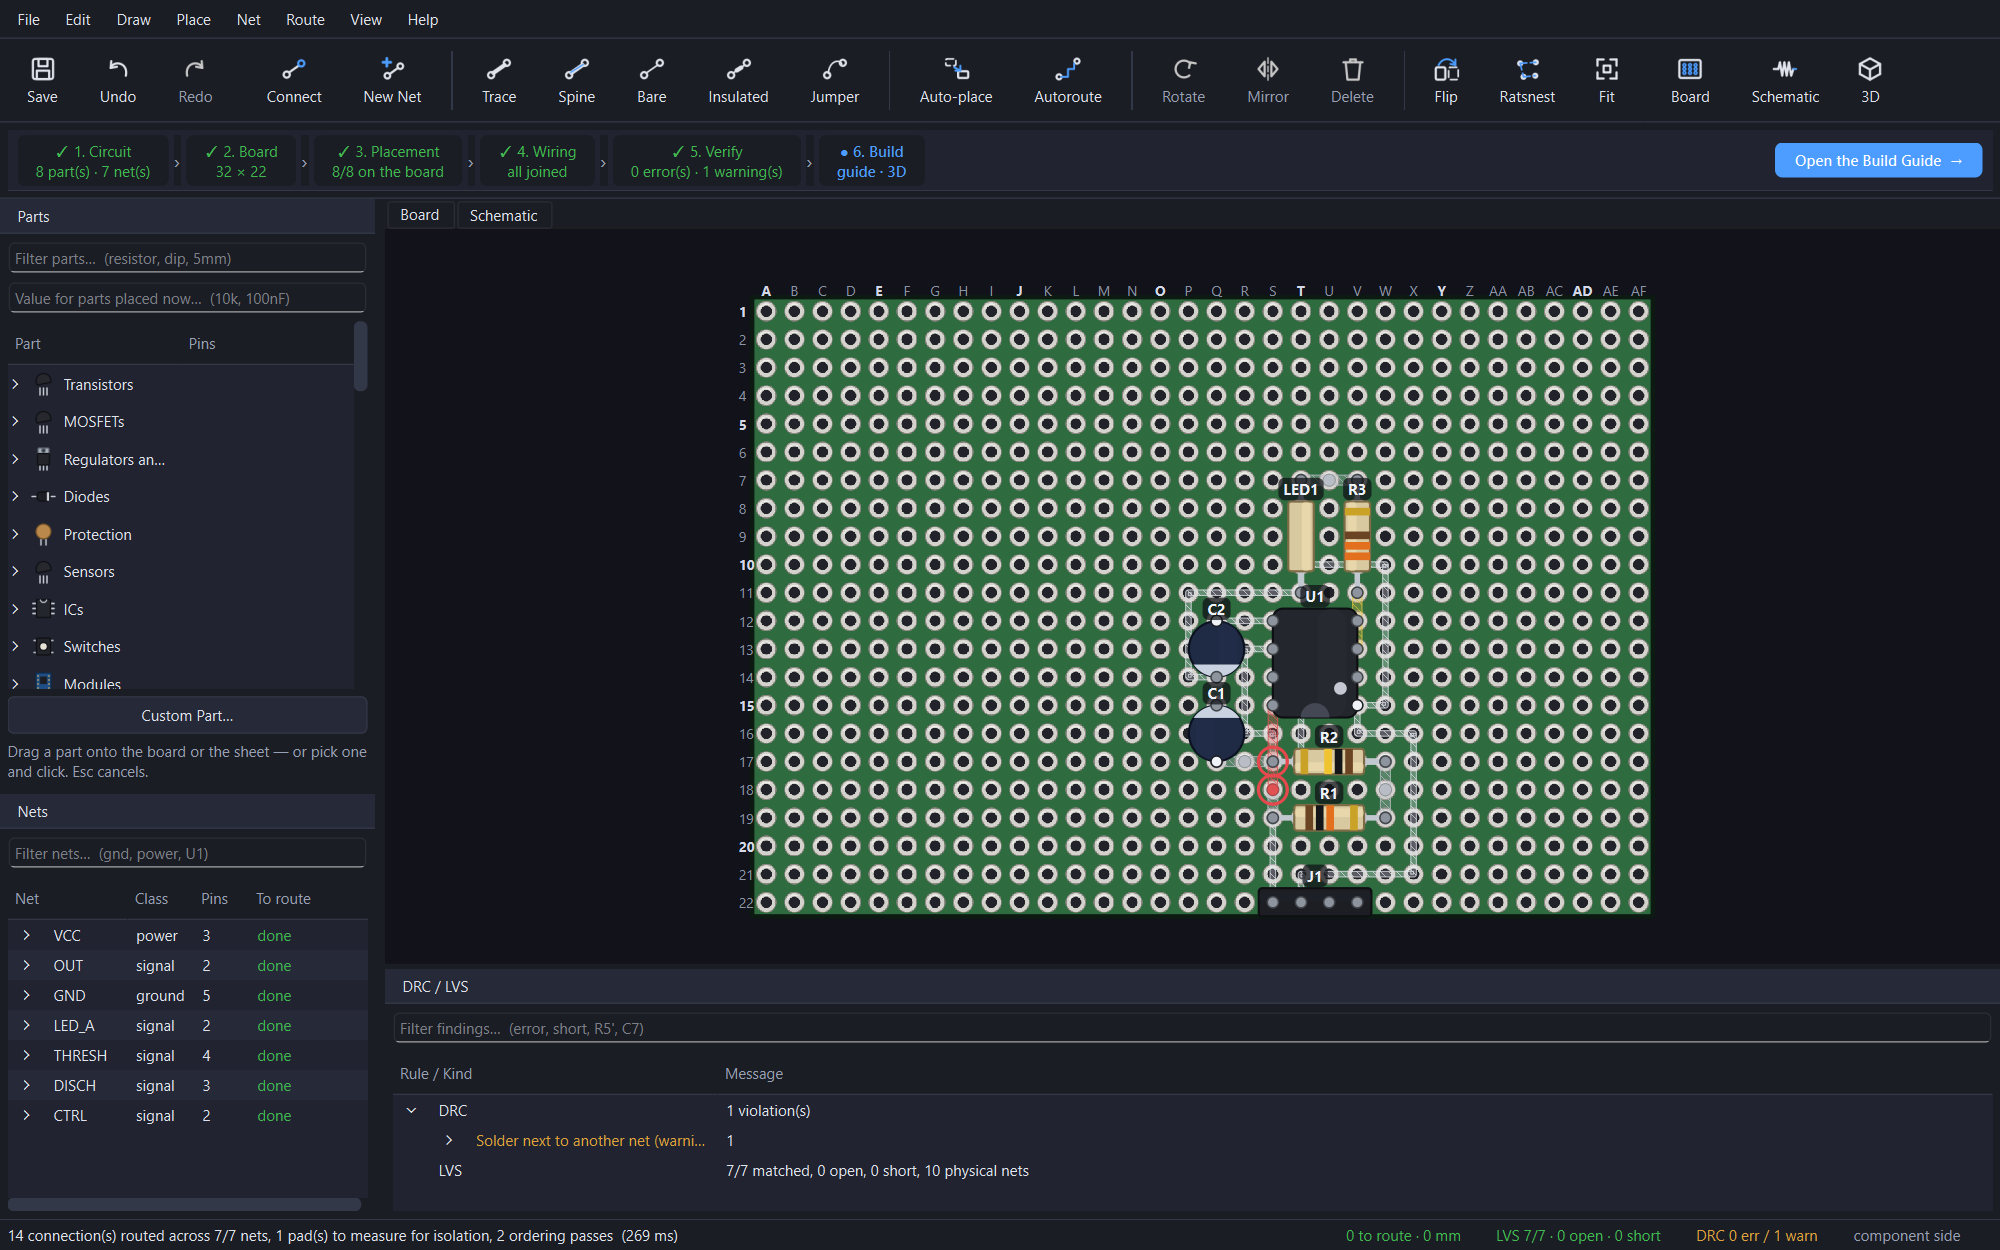
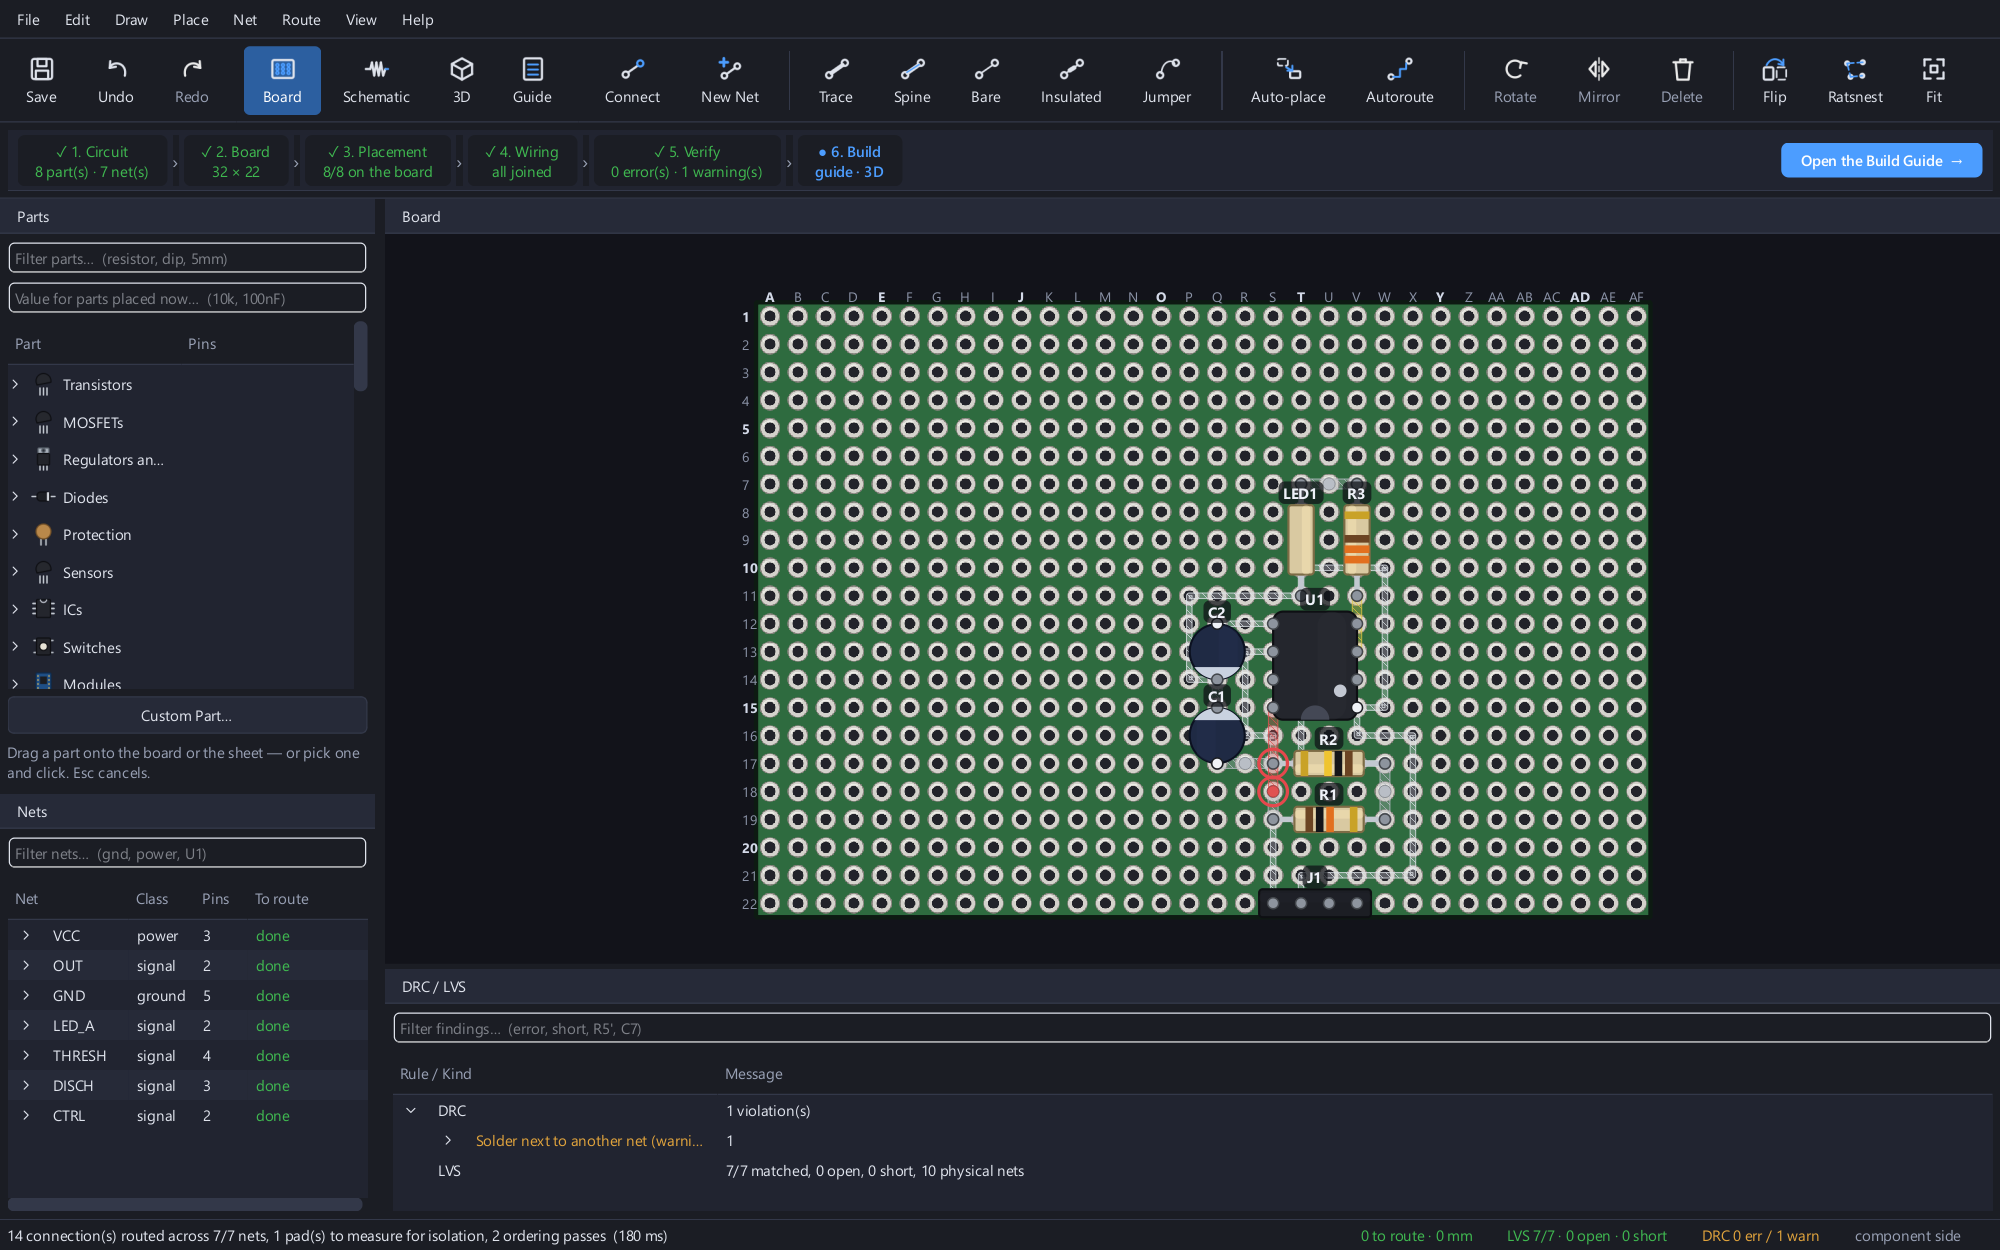
README: screenshots of the window as it is now
The editor shots still showed the toolbar with the view buttons at the
far end and the board and schematic as two tabs. The schematic shot now
shows the sheet beside the board, as the window opens it: the board is
turned back to its component side and fitted into the half it has left,
and the sheet is closed afterwards so the next window -- which restores
this one's layout -- gives the close-up of the Nano the whole width.

The two 3D images are unchanged: a fresh render differs from them only
along edges.

diff --git a/tools/screenshots.py b/tools/screenshots.py
@@ -165,14 +165,21 @@ def main() -> int:
     shots.append(("editor-solder-side.png", "2D editor, solder side"))
 
     # The same circuit as a sheet, in the panel that draws one: a 555 is a sheet a reader
-    # can check by eye, which is the point of it being the example.
+    # can check by eye, which is the point of it being the example. The sheet opens BESIDE
+    # the board, so the board is turned back to the face the parts are on and fitted again
+    # into the half it has left -- otherwise it keeps the zoom it had across the whole
+    # window and goes off the edge of its panel.
+    window.on_flip_board()
     window.show_schematic()
     _settle(app)
+    window.view.fit_board()
     window.schematic_view.fit()
     _settle(app)
     window.grab().save(str(OUT_DIR / "schematic.png"))
     shots.append(("schematic.png", "the schematic panel"))
-    window.show_board()
+    # Closed again, not merely put behind: the next window restores this one's layout from
+    # the same settings, and a close-up of the board wants the whole width.
+    window.dock_schematic.close()
     _settle(app)
 
     document = window.bus.document
